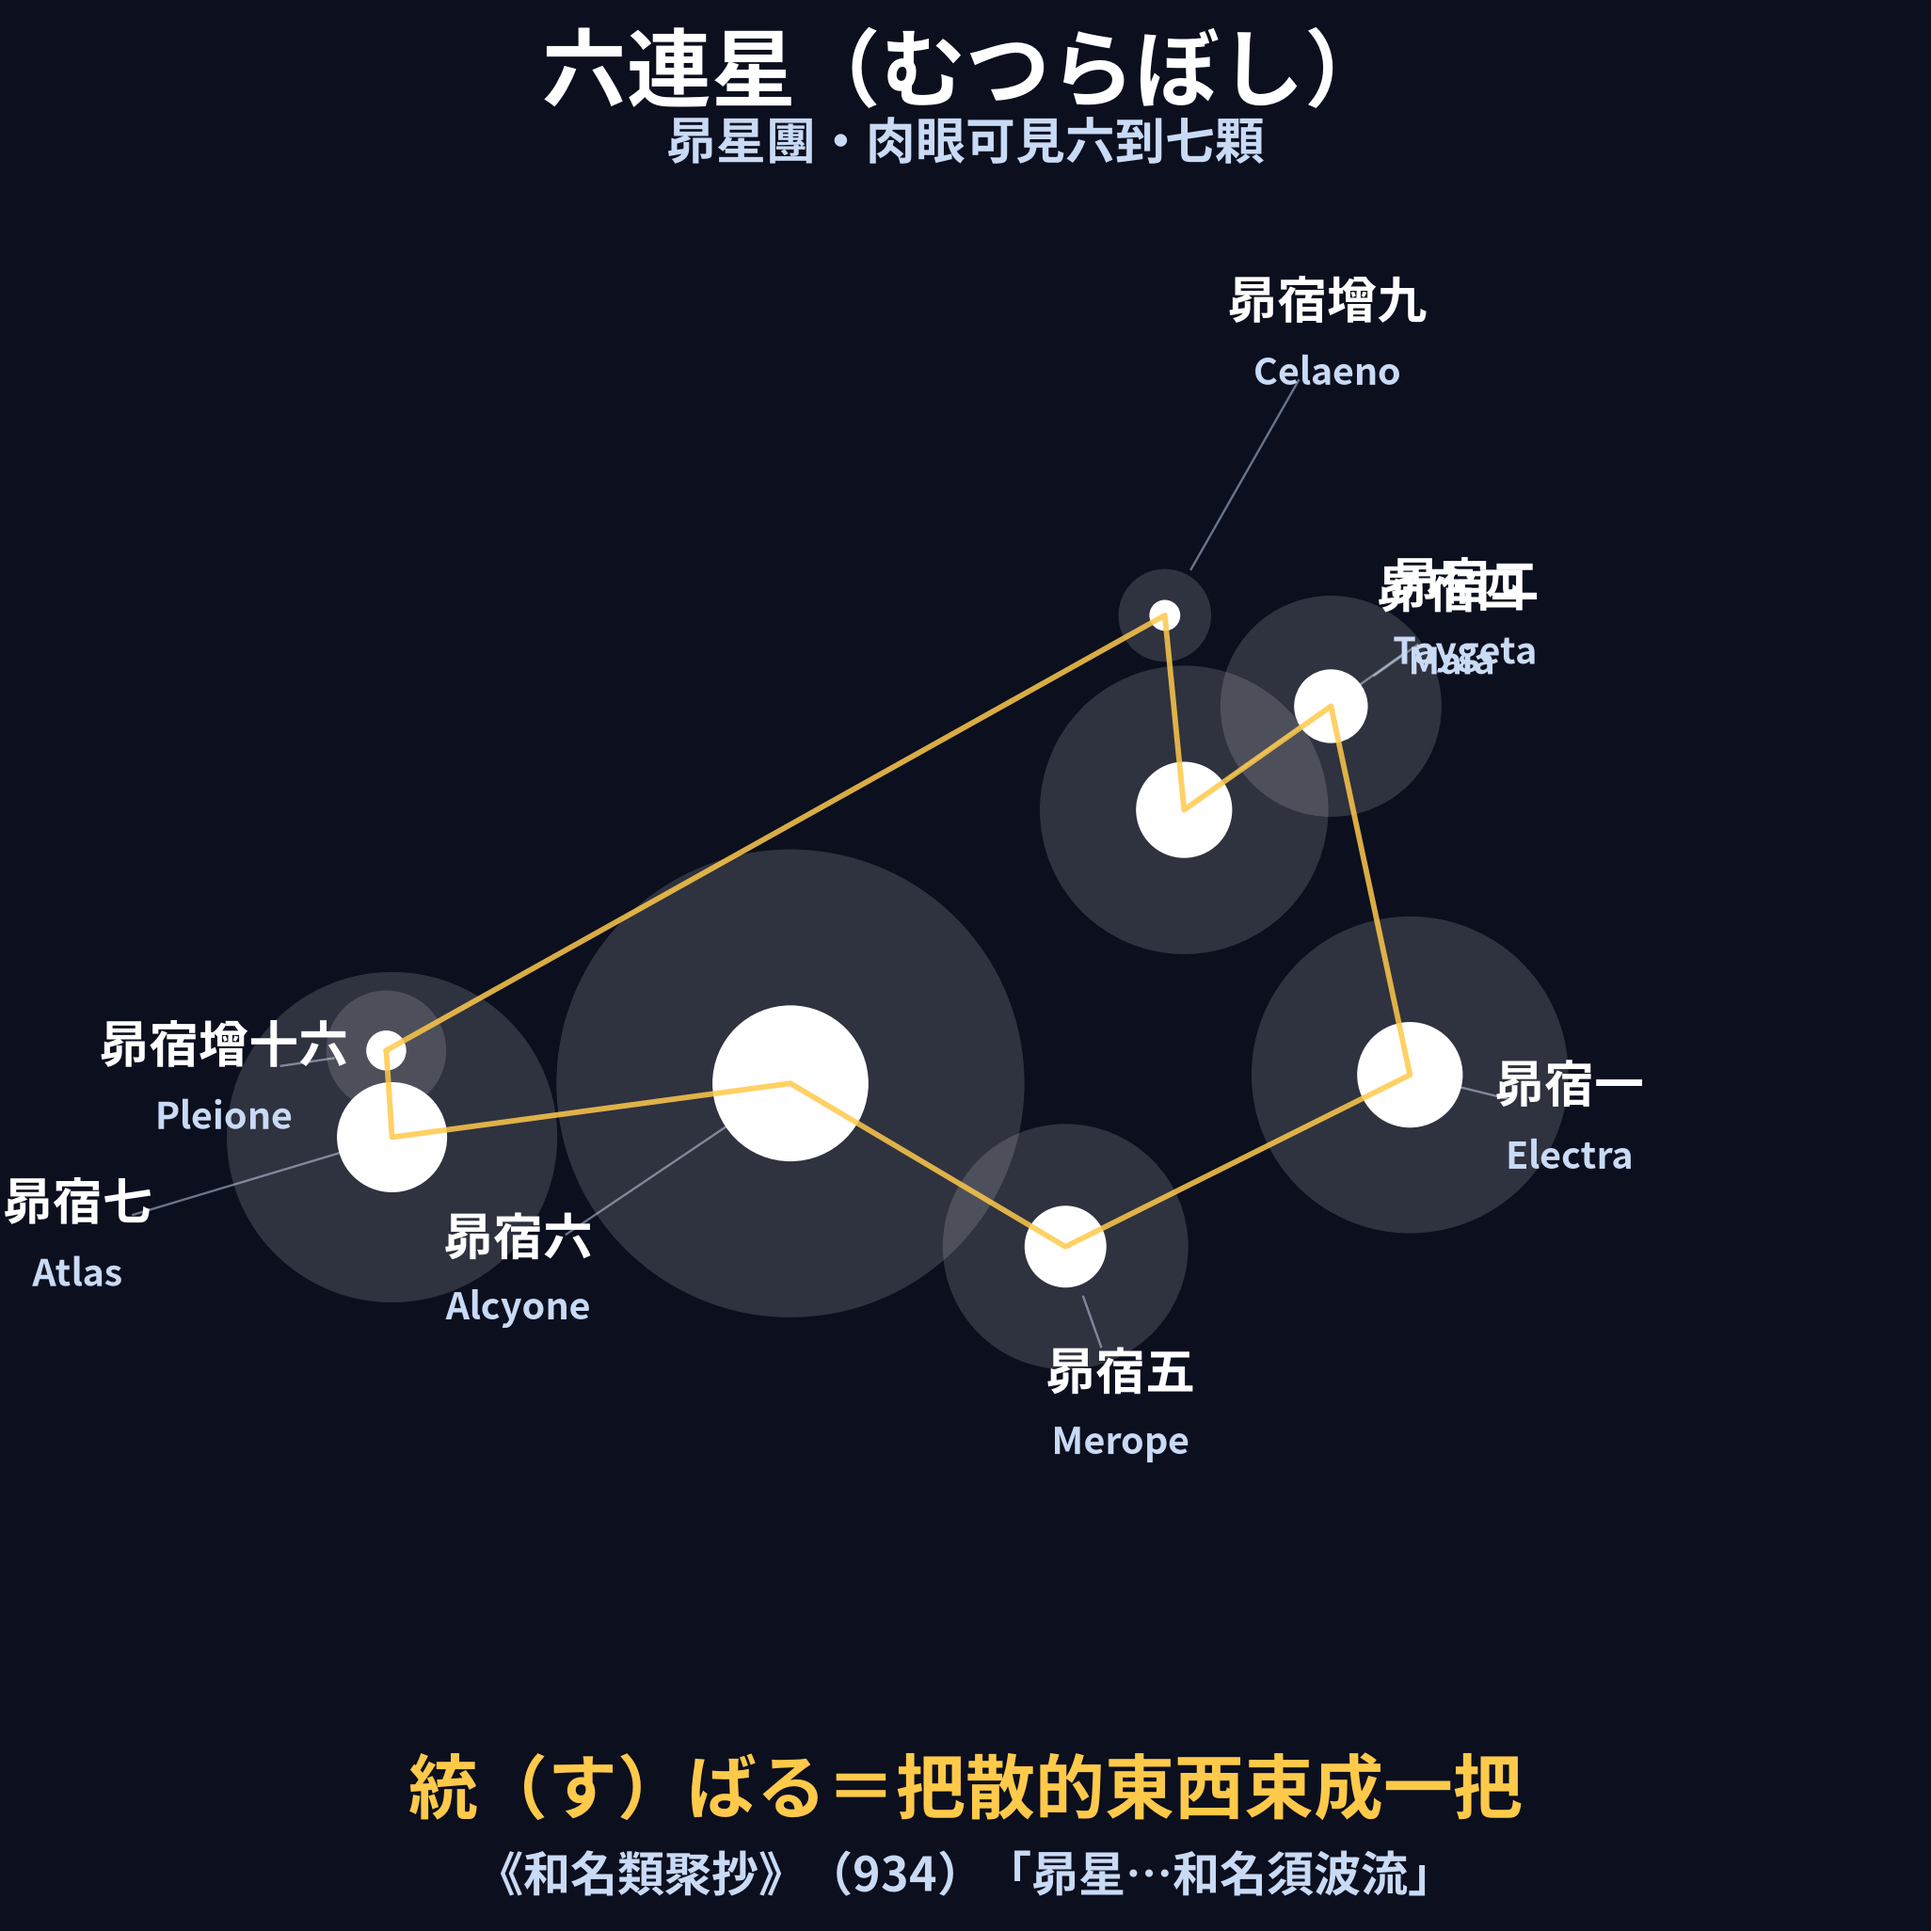
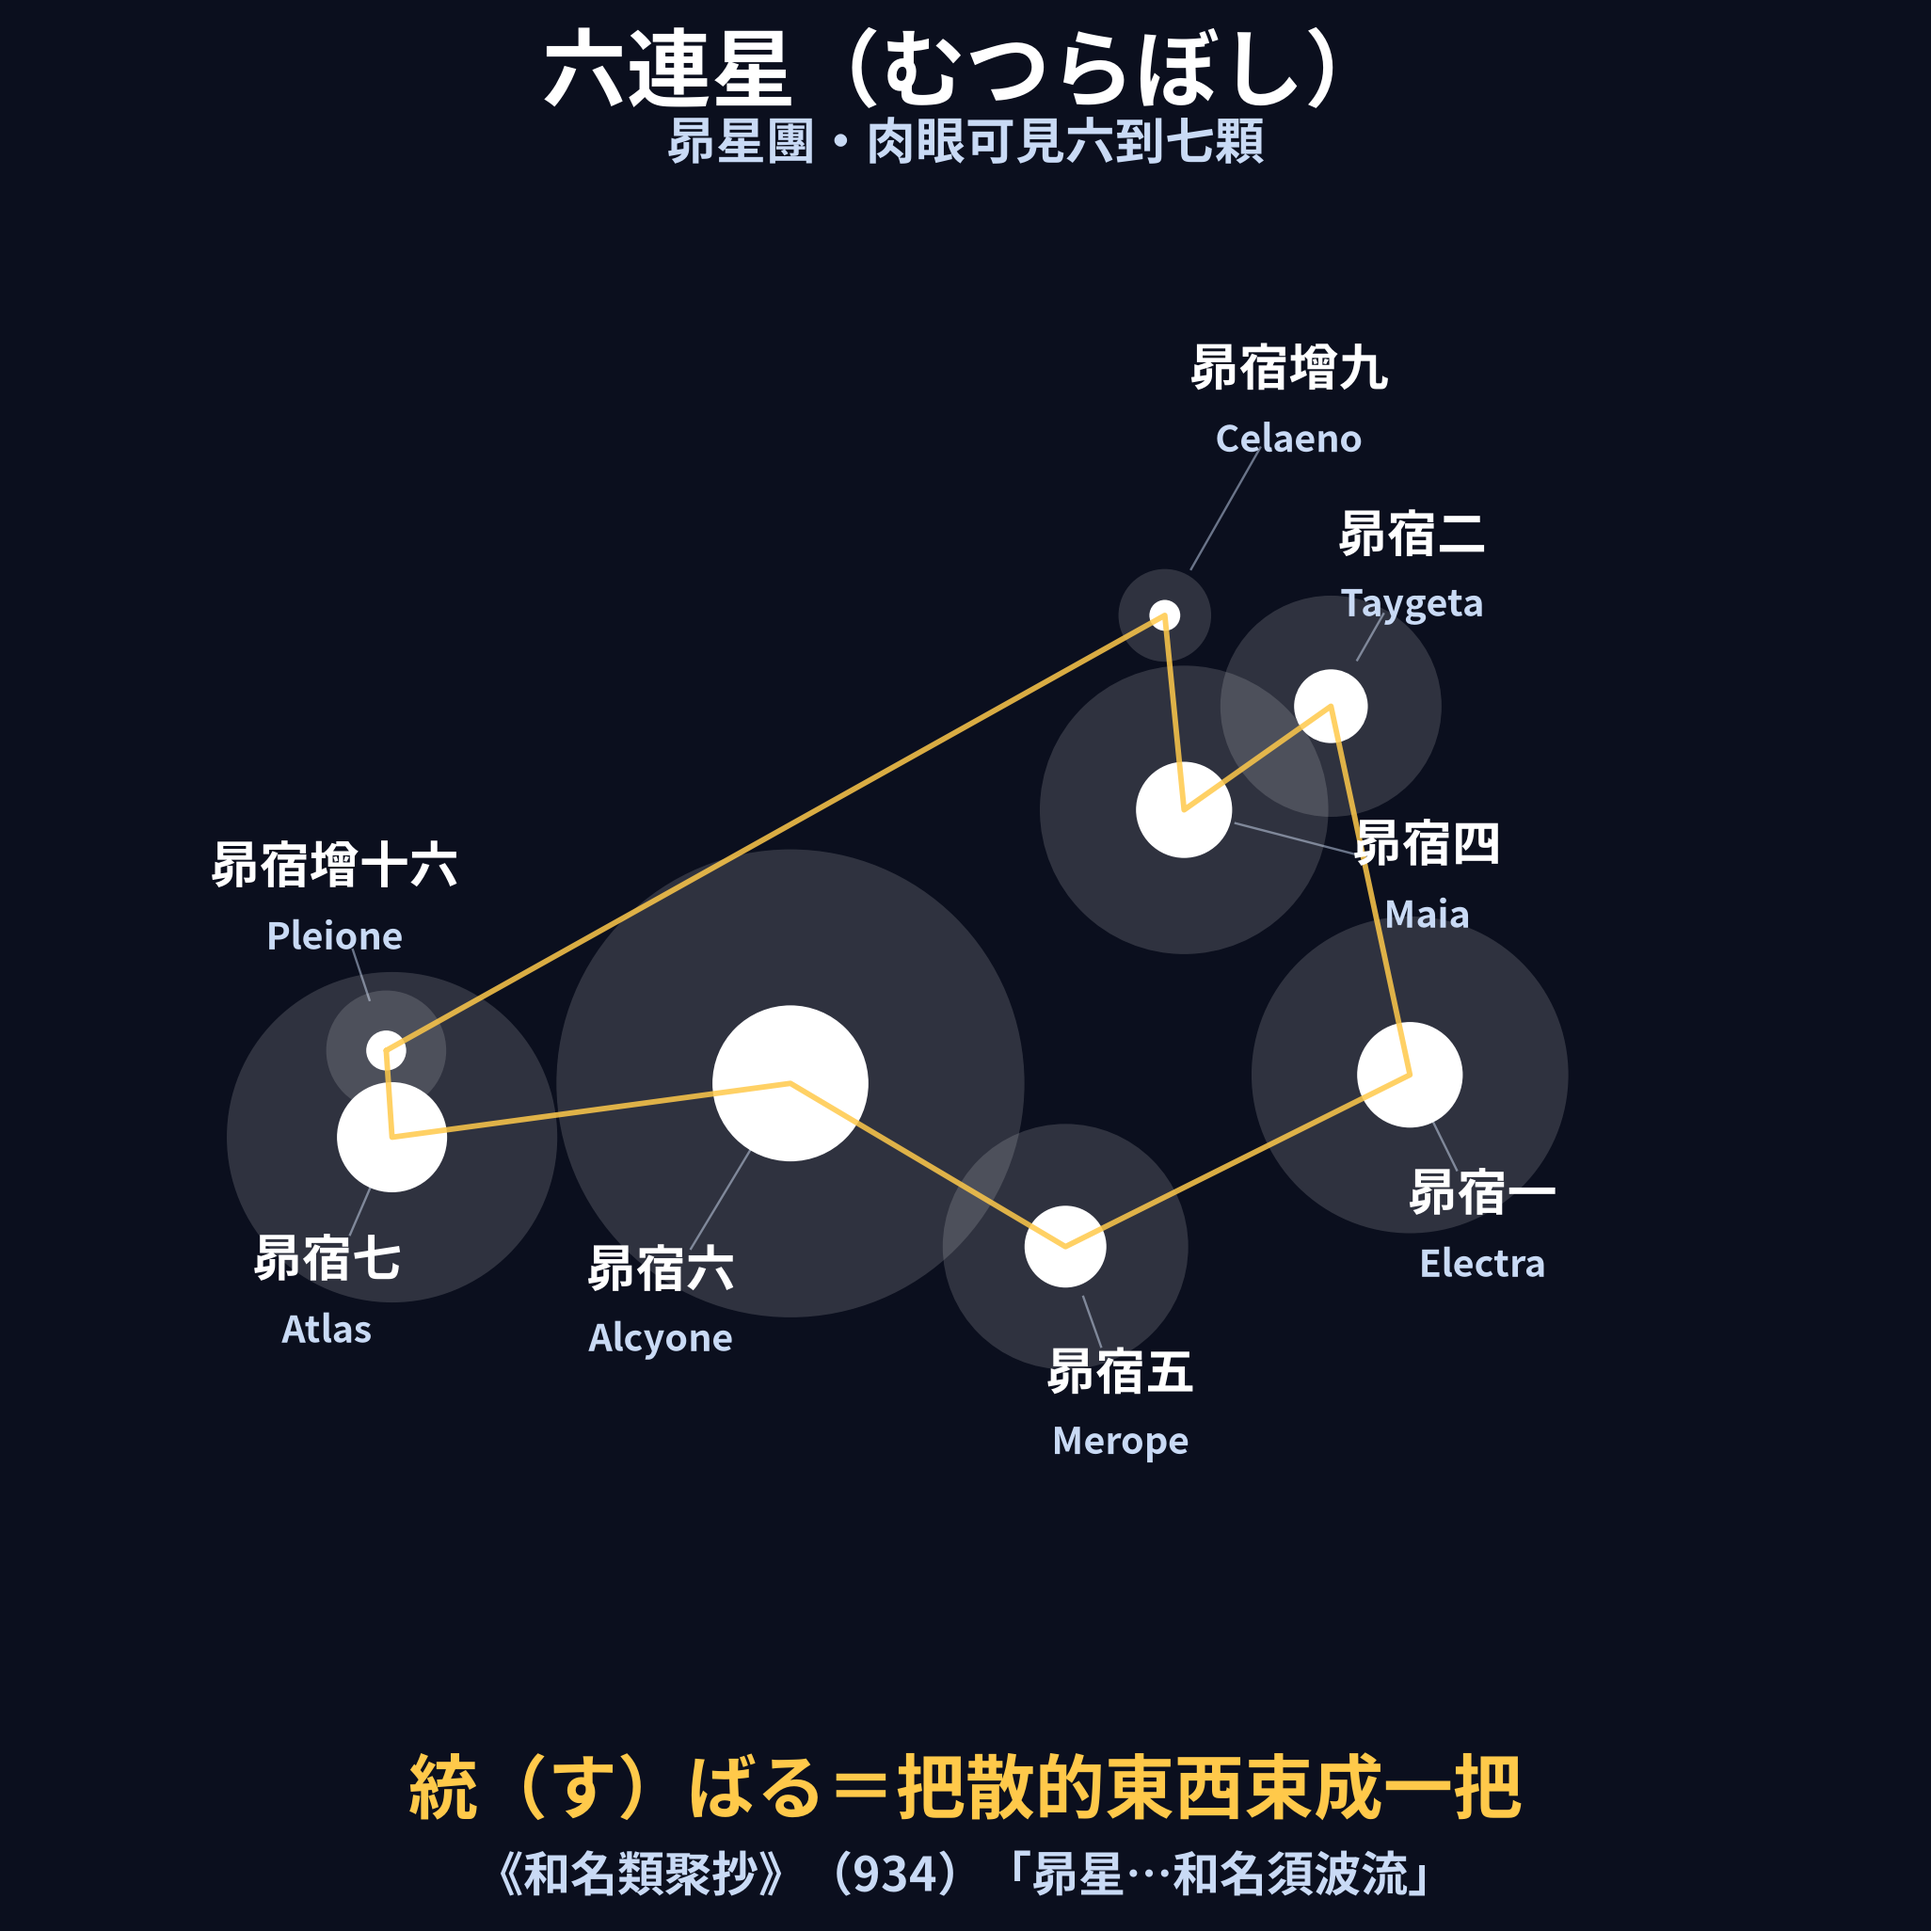
A-05 概念圖：六連星標籤避讓（昴宿二／昴宿四不再疊字）、キトラ內規標註移到左下
Claude-Session: https://claude.ai/code/session_01StZzE6tWpXcy8oYxpE6GNa

diff --git a/02_製作流程SOP/make_a05_diagrams.py b/02_製作流程SOP/make_a05_diagrams.py
@@ -84,21 +84,38 @@ def ple_bundle(ax):
 
 
 def ple_labels(ax):
-    """標籤沿質心→星的方向往外推；方位角太近的互相錯開推距，避免疊字"""
+    """標籤沿質心→星的方向往外推；和已放好的標籤重疊就改試別的角度／推距
+    （昴宿二、昴宿四方位角幾乎一樣，只靠推距錯開會疊在一起）"""
     pts = sorted(_ple_xy(), key=lambda p: math.atan2(p[1], p[0]))
-    push, prev = [], None
-    for x, y, *_ in pts:
-        a = math.degrees(math.atan2(y, x))
-        d = 0.17 if prev is None or abs(a - prev) > 26 else 0.34
-        push.append(d); prev = a
-    for (x, y, en, zh, v), d0 in zip(pts, push):
+    boxes = [(x, y, r + 0.012, r + 0.012)       # 星點本身也是障礙物（實心圓的外接框）
+             for x, y, *_, v in pts
+             for r in [max(0.016, (6.6 - v) ** 1.55 * 0.0105)]]
+
+    def hit(cx, cy, hw, hh):
+        if abs(cx) + hw > 0.98 or cy + hh > 0.80 or cy - hh < -0.74:
+            return True
+        return any(abs(cx - bx) < hw + bw and abs(cy - by) < hh + bh
+                   for bx, by, bw, bh in boxes)
+
+    for x, y, en, zh, v in pts:
         d = math.hypot(x, y) or 1e-6
-        ux, uy = x / d, y / d
-        lx, ly = x + ux * d0, y + uy * d0
+        a0 = math.atan2(y, x)
+        hw, hh = max(len(zh) * 0.042, len(en) * 0.022) + 0.02, 0.085
+        for dd in (0.17, 0.26, 0.36):
+            for da in (0, 25, -25, 50, -50, 80, -80):
+                a = a0 + math.radians(da)
+                lx, ly = x + math.cos(a) * dd, y + math.sin(a) * dd
+                if not hit(lx, ly - 0.005, hw, hh):
+                    break
+            else:
+                continue
+            break
+        boxes.append((lx, ly - 0.005, hw, hh))
+        ux, uy = math.cos(a), math.sin(a)
         T(ax, lx, ly + 0.032, zh, 20, WHITE)
         T(ax, lx, ly - 0.042, en, 15, MW)
-        ax.plot([x + ux * 0.055, x + ux * (d0 - 0.06)],
-                [y + uy * 0.055, y + uy * (d0 - 0.06)], c=MW, lw=.9,
+        ax.plot([x + ux * 0.055, x + ux * (dd - 0.06)],
+                [y + uy * 0.055, y + uy * (dd - 0.06)], c=MW, lw=.9,
                 alpha=.5, zorder=2)
     T(ax, 0.0, 0.93, "六連星（むつらぼし）", 34, WHITE)
     T(ax, 0.0, 0.855, "昴星團・肉眼可見六到七顆", 20, MW)
@@ -146,15 +163,17 @@ def kitora_dims(ax):
     """三條半徑線各走不同方位角，標註不互相壓"""
     for d, c, lab, ang in ((D_OUT, AMBER, f"外規　徑 {D_OUT} cm", 38),
                            (D_EQ, WHITE, f"赤道　徑 {D_EQ} cm", -20),
-                           (D_IN, BLUE, f"內規　徑 {D_IN} cm", -72)):
+                           (D_IN, BLUE, f"內規　徑 {D_IN} cm", -125)):
         r = d / 2 * SC
         a = math.radians(ang)
         ax.plot([0, r * math.cos(a)], [0, r * math.sin(a)], c=c, lw=1.2,
                 alpha=.55, zorder=3)
         ax.plot([r * math.cos(a)], [r * math.sin(a)], marker="o", ms=5, c=c,
                 zorder=5)
-        T(ax, r * math.cos(a) + 0.03, r * math.sin(a) + 0.045, lab, 19, c,
-          ha="left")
+        left = math.cos(a) < 0                   # 左半邊的標註往左長，不壓到右邊的線
+        T(ax, r * math.cos(a) + (-0.03 if left else 0.03),
+          r * math.sin(a) + (-0.05 if left else 0.045), lab, 19, c,
+          ha="right" if left else "left")
     T(ax, -0.075, 0.075 + D_ECL / 2 * SC + 0.05,
       f"黃道　徑 {D_ECL} cm（キトラ把它畫在錯的一側）", 17, GREEN)
 
